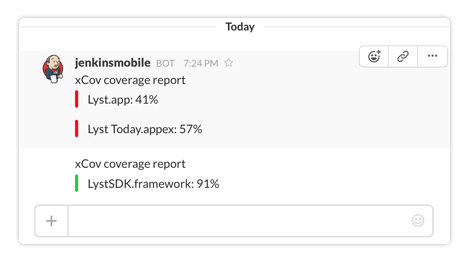
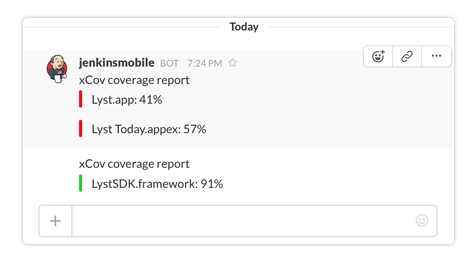
fixed attachment color on slack poster

diff --git a/lib/xcov/commands_generator.rb b/lib/xcov/commands_generator.rb
@@ -33,7 +33,7 @@ module Xcov
 
       global_option("--verbose") { $verbose = true }
 
-      command :tests do |c|
+      command :report do |c|
         c.syntax = "Xcov"
         c.description = Xcov::DESCRIPTION
         c.action do |_args, options|
@@ -42,10 +42,10 @@ module Xcov
         end
       end
 
-      default_command :tests
+      default_command :report
 
       run!
     end
-    
+
   end
 end

diff --git a/lib/xcov/slack_poster.rb b/lib/xcov/slack_poster.rb
@@ -20,7 +20,7 @@ module Xcov
       report.targets.each do |target|
         attachments << {
           text: "#{target.name}: #{target.displayable_coverage}",
-          color: report.coverage_color,
+          color: target.coverage_color,
           short: true
         }
       end

diff --git a/README.md b/README.md
@@ -12,26 +12,39 @@ sudo gem install xcov
 ```
 
 ## Features
-* Built on top of **Fastlane**, you can easily plug it on to your CI environment
-* Generates nice HTML reports
+* Built on top of [Fastlane](https://fastlane.tools), you can easily plug it on to your CI environment.
+* Generates nice HTML reports.
 
 ![/assets_readme/report.png](/assets_readme/report.png)
 
-* Slack integration
+* Slack integration.
 
 ![/assets_readme/slack_integration.png](/assets_readme/slack_integration.png)
 
 ## Requirements
 In order to make *xCov* run you must:
-* Use Xcode 7
-* Have the latest version of Xcode command line tools
+* Use Xcode 7.
+* Have the latest version of Xcode command line tools.
+* Set your project scheme as **shared**.
 * Enable the **Gather coverage data** setting available on your scheme settings window.
 
 ![/assets_readme/gather_coverage.png](/assets_readme/gather_coverage.png)
 
 ## Usage
+*xCov* analyzes the `.xccoverage` files created after running your tests therefore, prior to execute xCov, you need to run your tests with either `Xcode`, `xcodebuild` or [scan](https://github.com/fastlane/scan). Once completed, obtain your coverage report by providing a few parameters:
+```
+xcov -w LystSDK.xcworkspace -s LystSDK -o xcov_output
+```
 
-
+### List of parameters allowed
+* `workspace` `-w`: Path of your `xcworkspace` file.
+* `project` `-p`: Path of your `xcodeproj` file (optional).
+* `scheme` `-s`: Scheme of the project to analyze.
+* `output` `-o`: Path for the output folder where the report files will be saved.
+* `derived_data_path` `-j`: Path of your project `Derived Data` folder (optional).
+* `slack_url` `-i`: Incoming WebHook for your Slack group to post results (optional).
+* `slack_channel` `-e`: Slack channel where the results will be posted (optional).
+* `skip_slack`: Add this flag to avoid publishing results on Slack. 
 
 ## Future improvements
 
